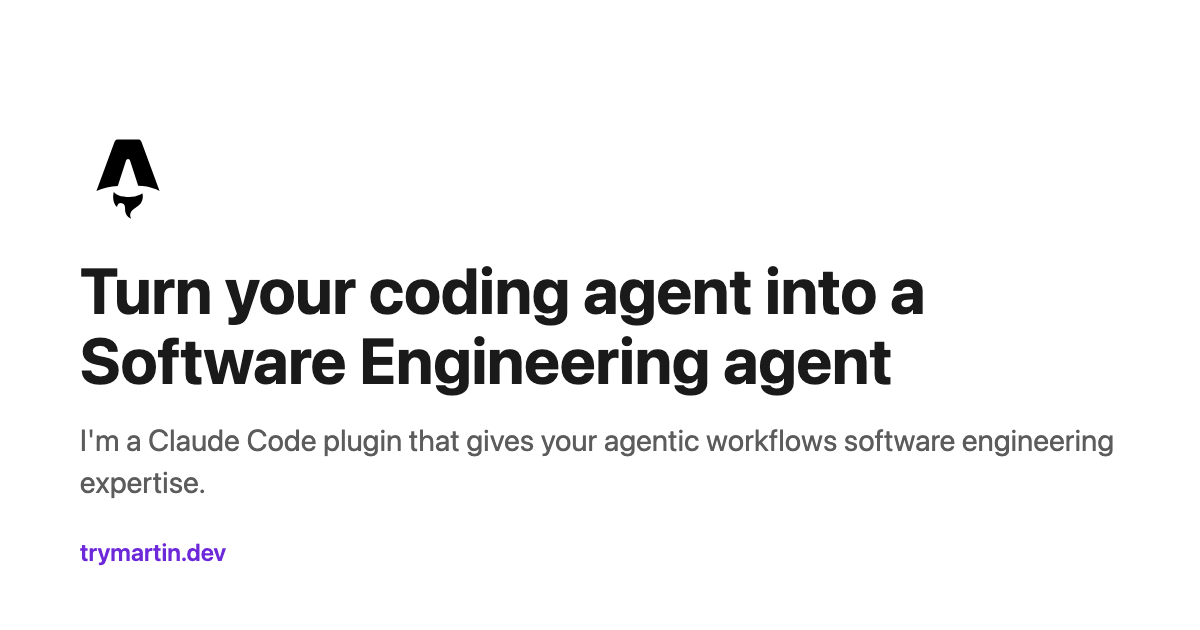
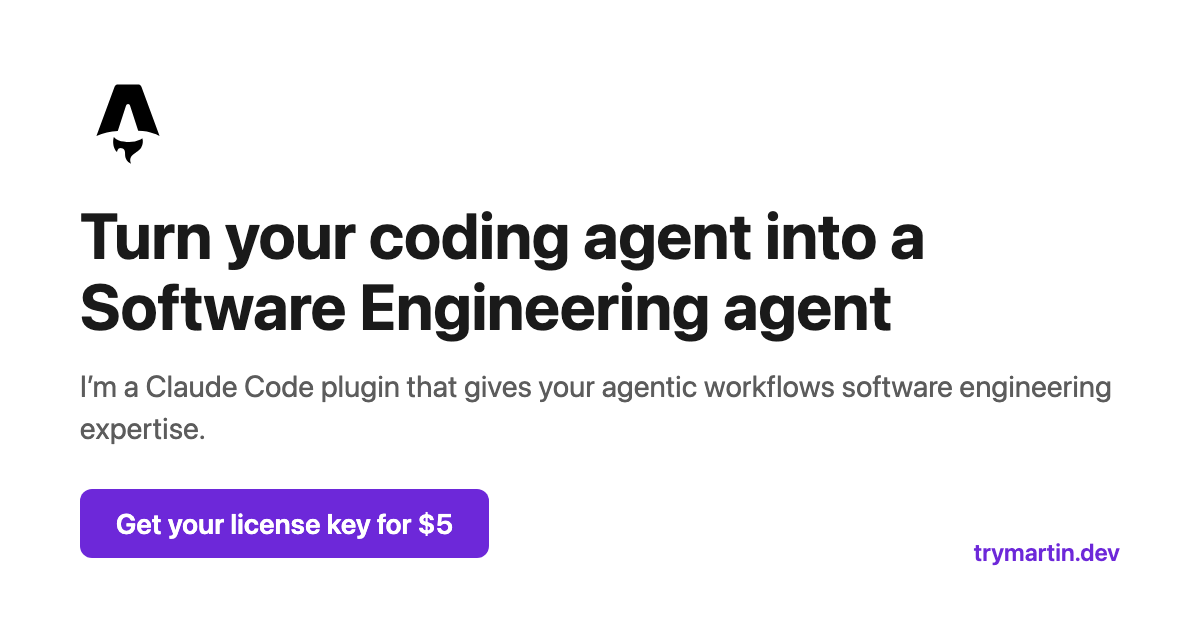
feat(link-preview): put the license-key call to action on the image and curl the pitch's apostrophe
Render "Get your license key for $5" as a button under the pitch line
on og.png, move the trymartin.dev mark to the bottom-right so the two
do not overlap, and update the documented regeneration script to match.

Change "I'm" to "I’m" in the pitch: opengraph.xyz's meta-description
parser stops at a straight apostrophe and reported the description as
one character long.

Refs: MAR-63, MAR-53

Claude-Session: https://claude.ai/code/session_01WTfUnv9kpfMVGyjBeEFaov

diff --git a/src/pitch.ts b/src/pitch.ts
@@ -2,7 +2,7 @@ export const headline =
   "Turn your coding agent into a Software Engineering agent";
 
 export const pitch =
-  "I'm a Claude Code plugin that gives your agentic workflows software engineering expertise. Ask me for an idea and get a fully working production codebase in one shot.";
+  "I’m a Claude Code plugin that gives your agentic workflows software engineering expertise. Ask me for an idea and get a fully working production codebase in one shot.";
 
 export const previewDescription =
   "Turns Claude Code into an expert software engineer";

diff --git a/tests/buying-a-license-key.spec.ts b/tests/buying-a-license-key.spec.ts
@@ -9,7 +9,7 @@ test("Martin pitches itself in the first person", async ({ page }) => {
 
   const paragraph = page.locator("h1 + p");
   await expect(paragraph).toContainText("production codebase in one shot");
-  await expect(paragraph).toContainText(/^I'm a Claude Code plugin/);
+  await expect(paragraph).toContainText(/^I’m a Claude Code plugin/);
 });
 
 test("The price is on the button", async ({ page }) => {

diff --git a/AGENTS.md b/AGENTS.md
@@ -67,14 +67,16 @@ const html = `<!doctype html>
       }
       .logo { width: 96px; height: 96px; margin: 0 0 32px; }
       h1 { font-size: 64px; font-weight: 700; line-height: 1.1; text-wrap: balance; margin: 0 0 24px; }
-      p { font-size: 30px; color: #5c5c5c; line-height: 1.4; margin: 0; }
-      .mark { position: absolute; left: 80px; bottom: 64px; font-size: 24px; font-weight: 600; color: #6d28d9; }
+      p { font-size: 30px; color: #5c5c5c; line-height: 1.4; margin: 0 0 40px; }
+      .cta { align-self: flex-start; padding: 18px 36px; border-radius: 12px; background: #6d28d9; color: #ffffff; font-size: 28px; font-weight: 600; }
+      .mark { position: absolute; right: 80px; bottom: 64px; font-size: 24px; font-weight: 600; color: #6d28d9; }
     </style>
   </head>
   <body>
     <div class="logo">${logo}</div>
     <h1>${headline}</h1>
     <p>${firstSentence}</p>
+    <span class="cta">Get your license key for $5</span>
     <span class="mark">trymartin.dev</span>
   </body>
 </html>`;
